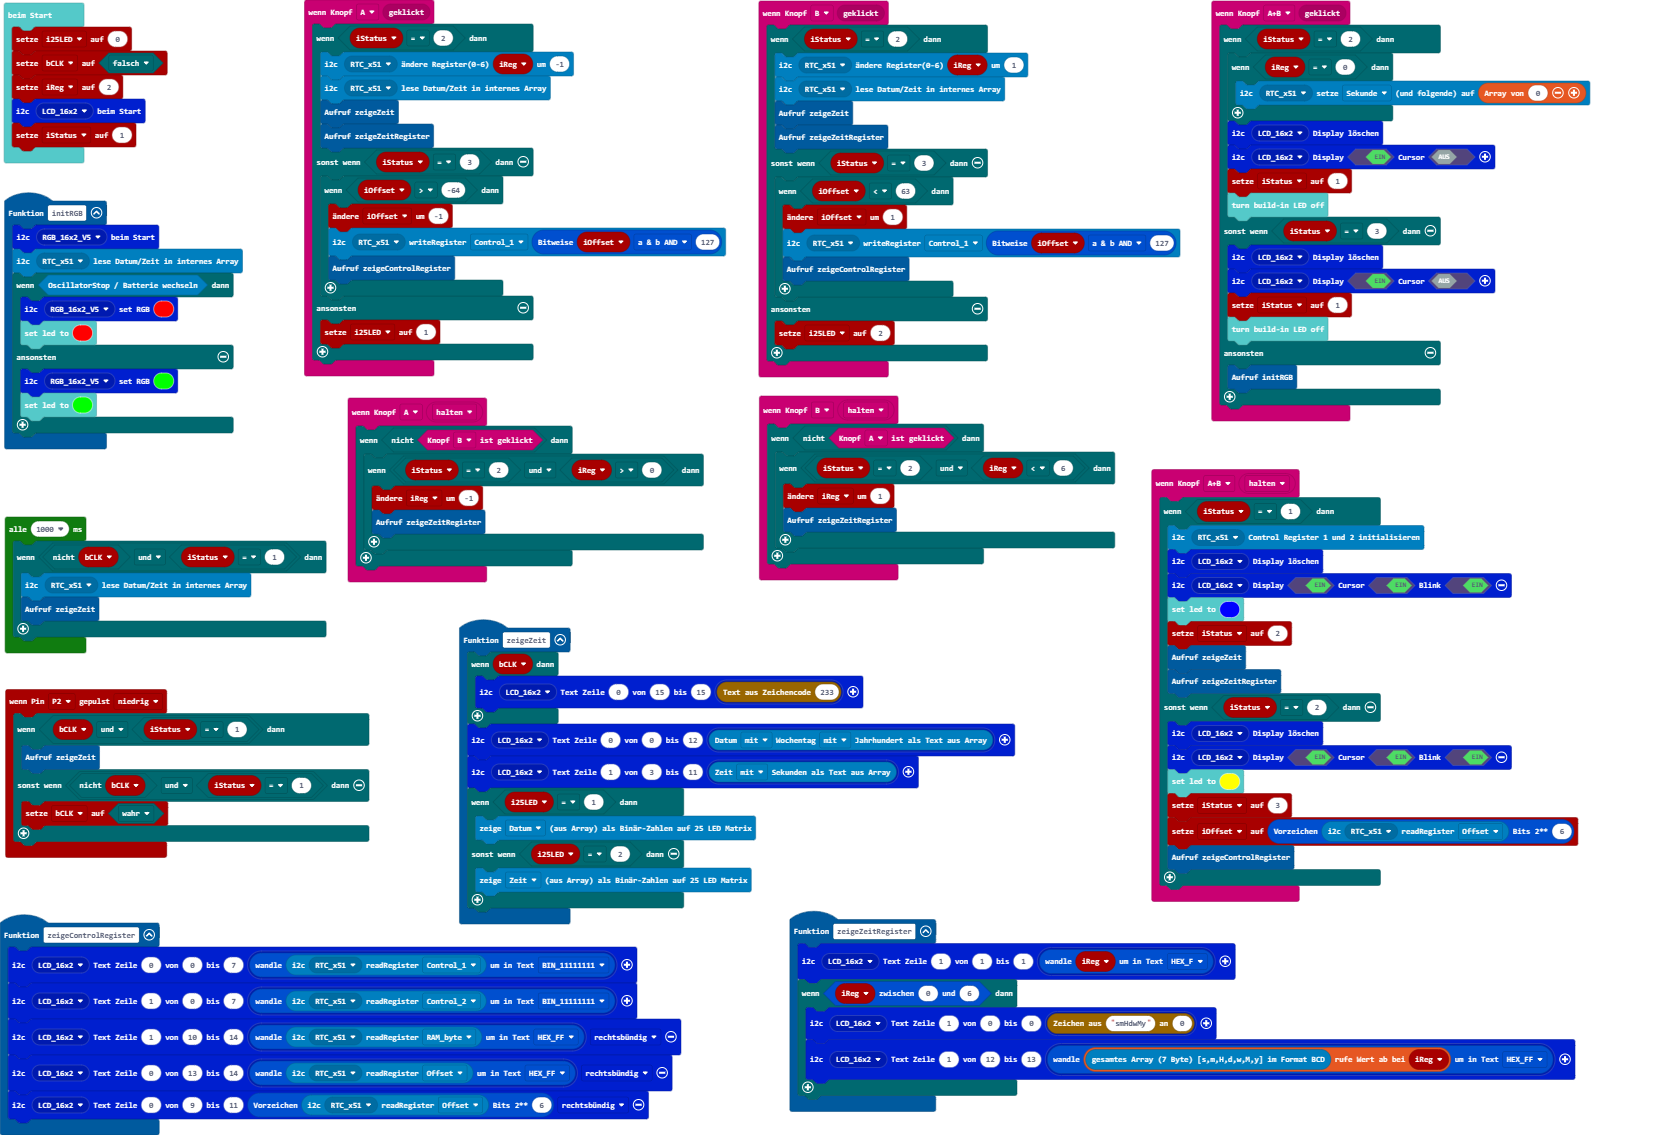
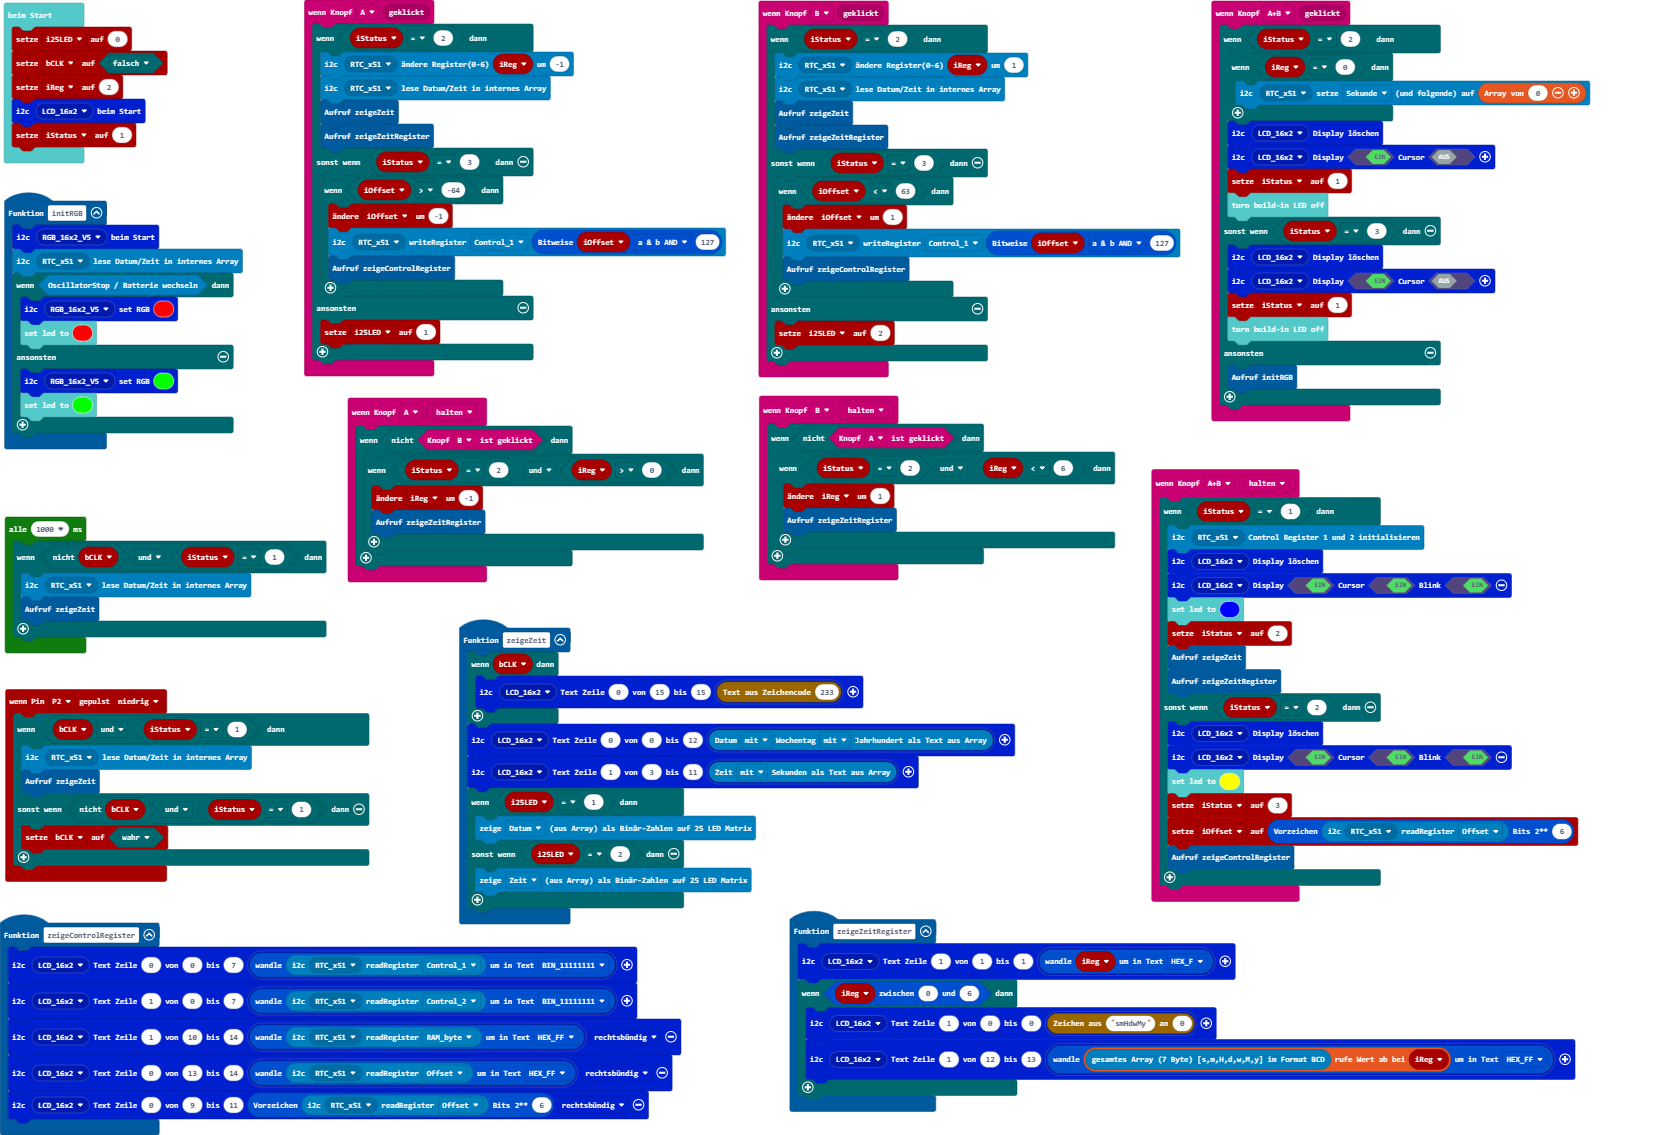
Aktualisiere main.blocks, main.ts

Changed region(s): [[0.0, 0.6476, 0.2494, 0.8018]]

diff --git a/main.ts b/main.ts
@@ -69,6 +69,7 @@ input.onButtonEvent(Button.B, input.buttonEventClick(), function () {
 })
 pins.onPulsed(DigitalPin.P2, PulseValue.Low, function () {
     if (bCLK && iStatus == 1) {
+        rtcpcf85063tp.readDateTime(rtcpcf85063tp.rtcpcf85063tp_eADDR(rtcpcf85063tp.eADDR.RTC_x51))
         zeigeZeit()
     } else if (!(bCLK) && iStatus == 1) {
         bCLK = true
